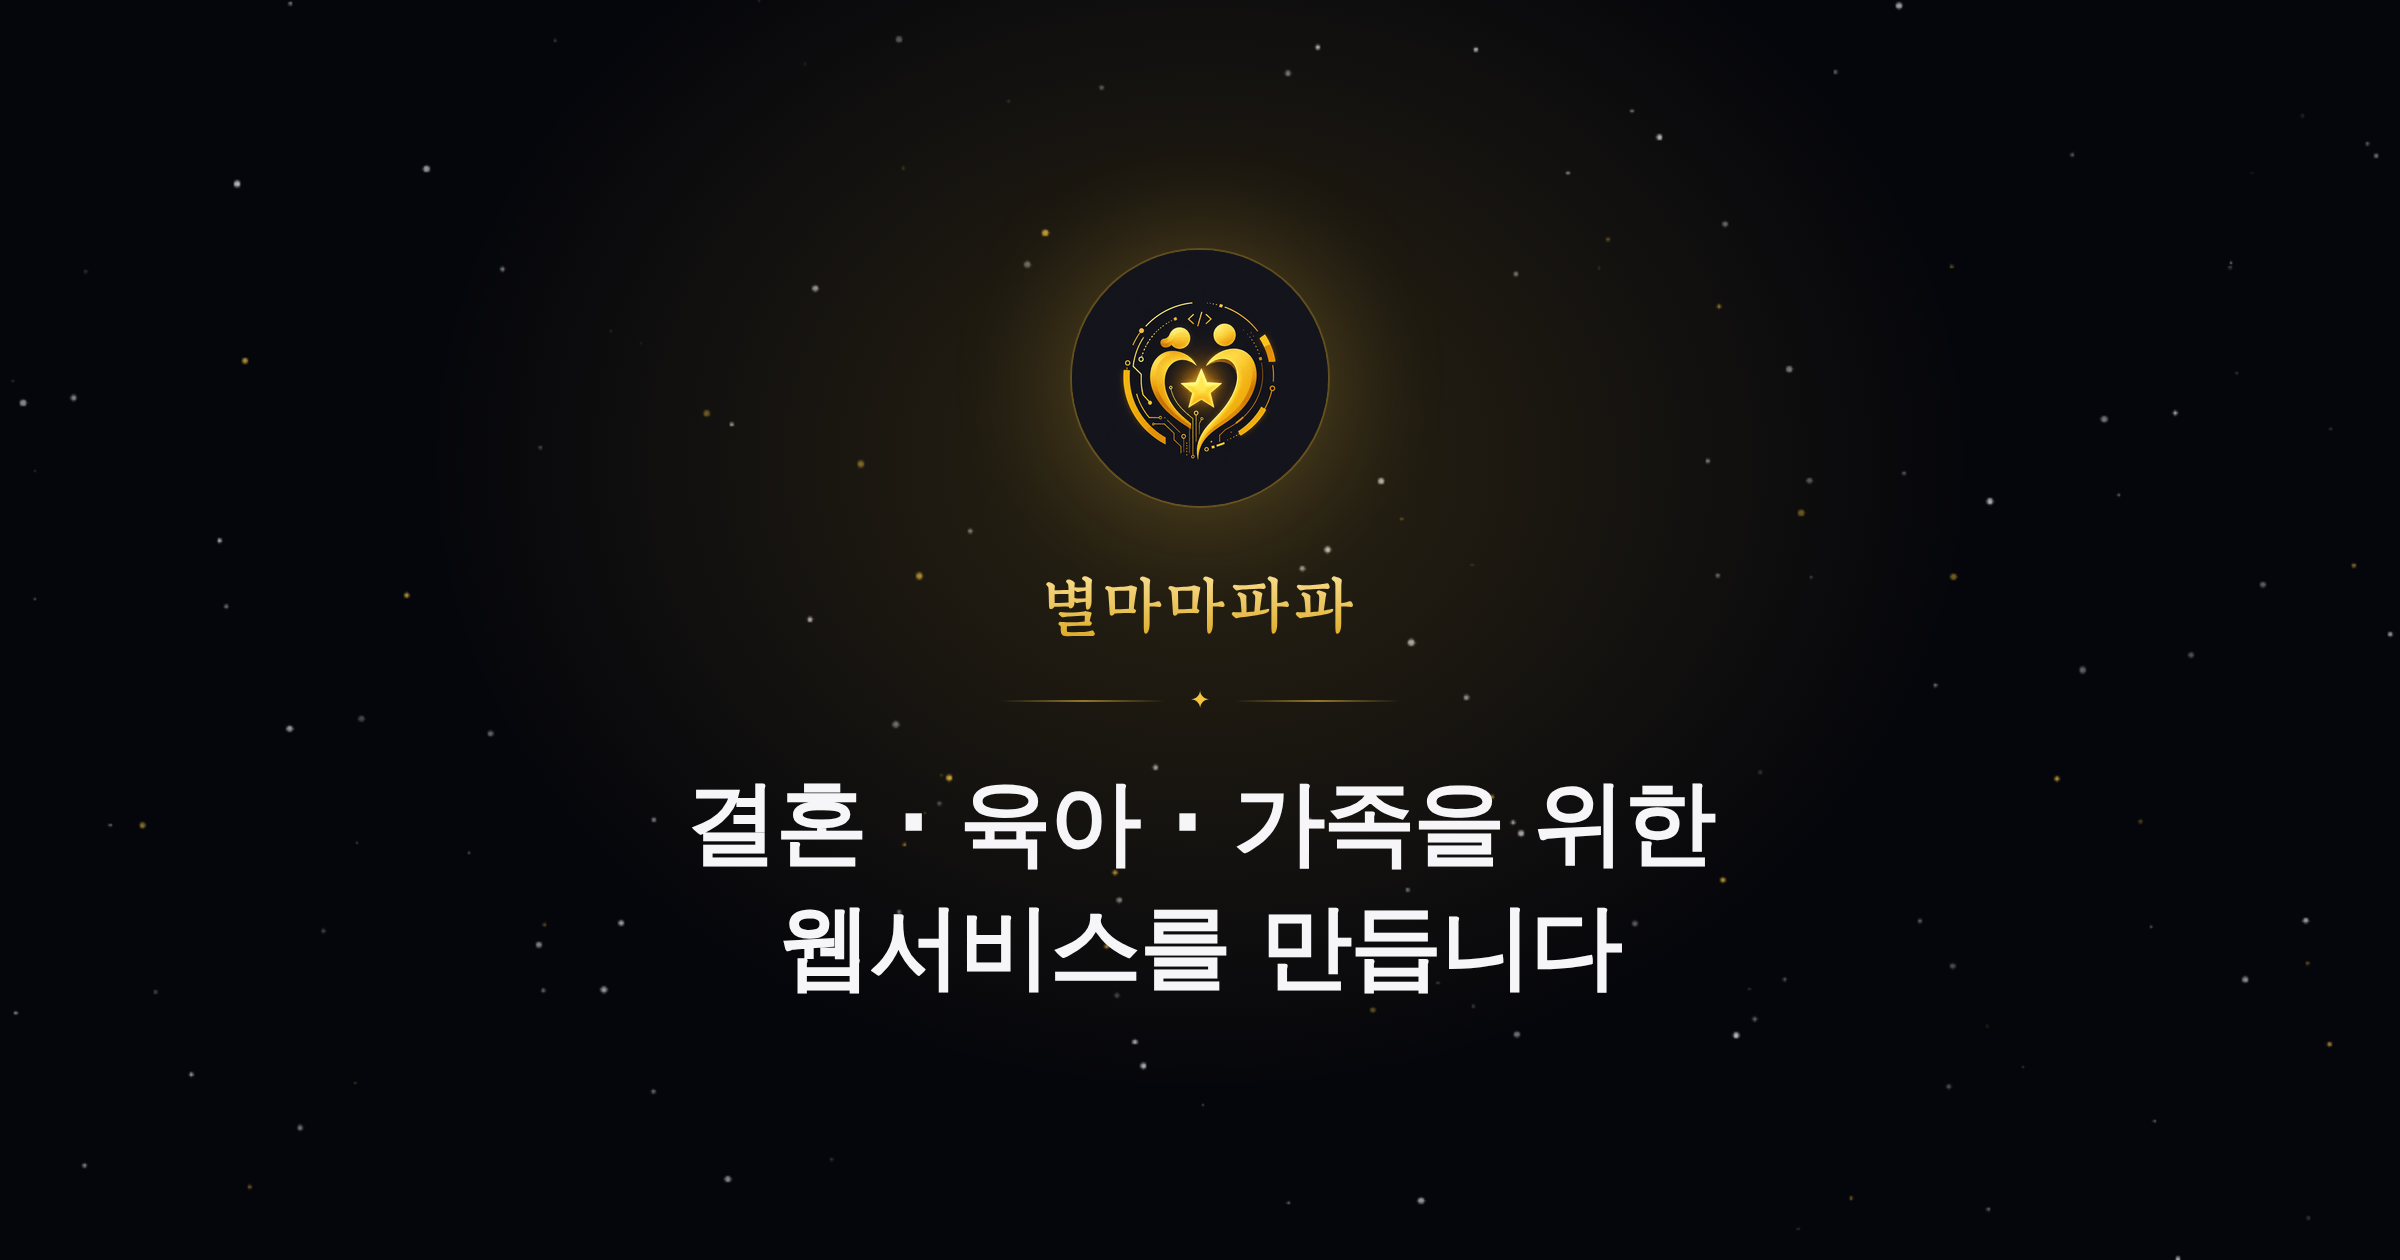
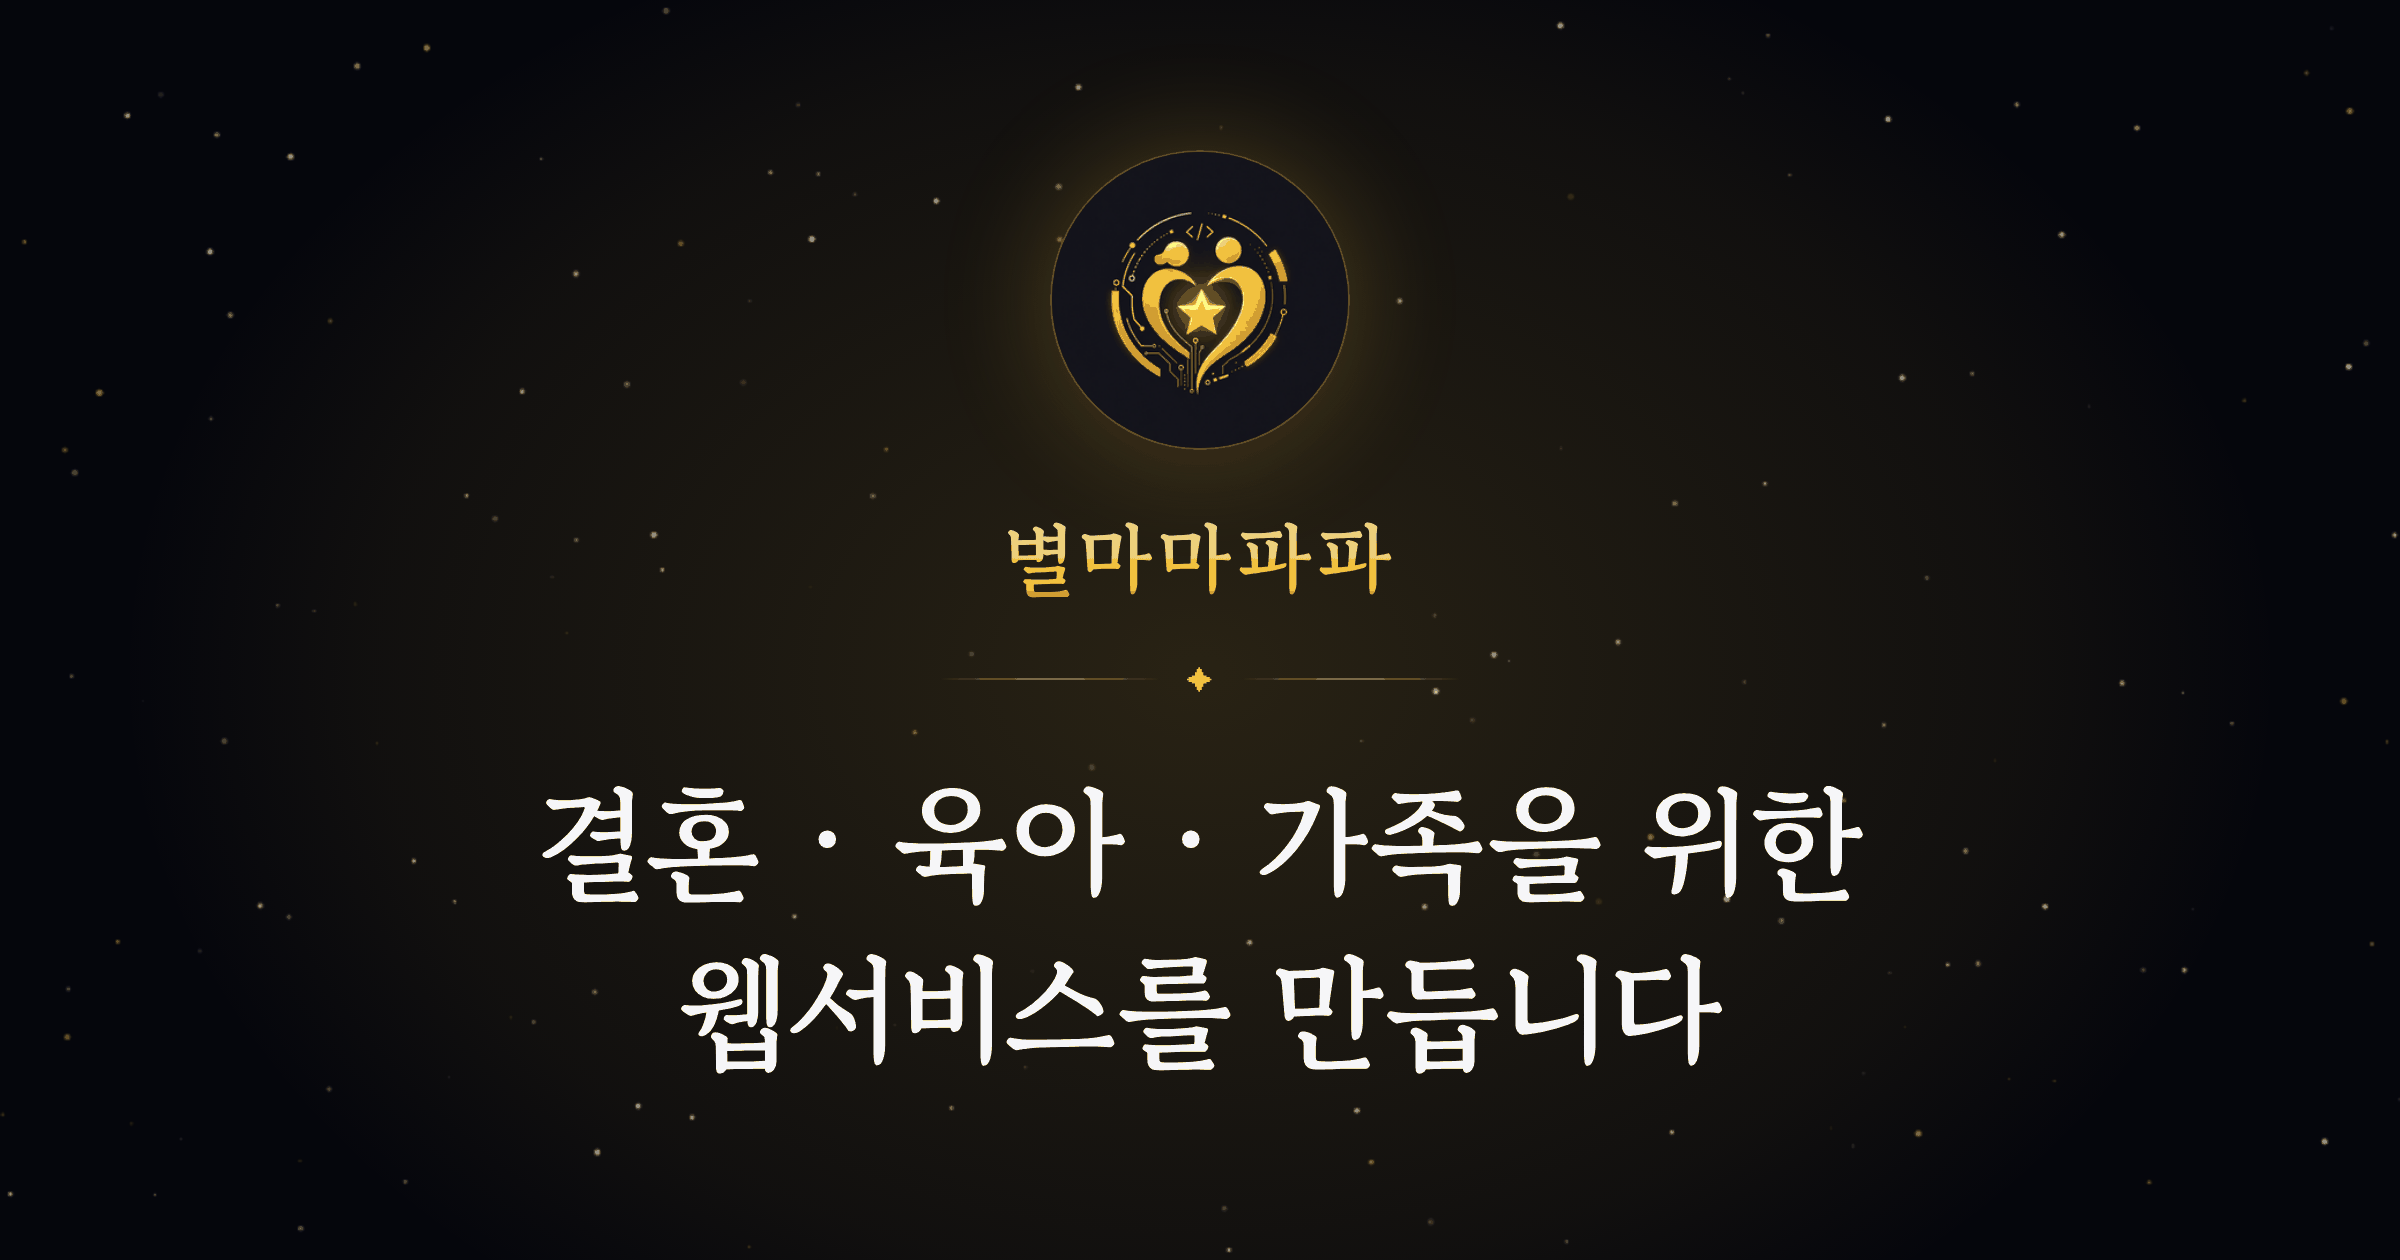
공유 이미지·소개 문구 갱신
카카오톡 공유 이미지를 고운바탕 글꼴로 새로 만들고,
og:description 과 히어로 소개 문구를 새 문구로 교체.

diff --git a/index.html b/index.html
@@ -13,7 +13,7 @@
 <meta property="og:type" content="website" />
 <meta property="og:site_name" content="별마마파파" />
 <meta property="og:title" content="별마마파파 — 결혼 · 육아 · 가족을 위한 웹서비스" />
-<meta property="og:description" content="결혼 · 육아 · 가족의 순간을 더 쉽고 예쁘게. 모바일 청첩장 '별빛 초대장'을 무료로 이용해 보세요." />
+<meta property="og:description" content="가장 소중한 순간들에 가장 편리하고 쉽게 이용할 수 있도록" />
 <meta property="og:url" content="https://byeolmamapapa.com/" />
 <meta property="og:image" content="https://byeolmamapapa.com/assets/og-image.png" />
 <meta property="og:image:width" content="1200" />
@@ -83,8 +83,8 @@
     <p class="hero__handle">@byeolmamapapa</p>
 
     <p class="hero__sub">
-      가장 소중한 순간을<br class="br-m" />
-      가장 편리하고 쉽게 남길 수 있도록
+      가장 소중한 순간들에<br class="br-m" />
+      가장 편리하고 쉽게 이용할 수 있도록
     </p>
 
     <div class="hero__cta">
